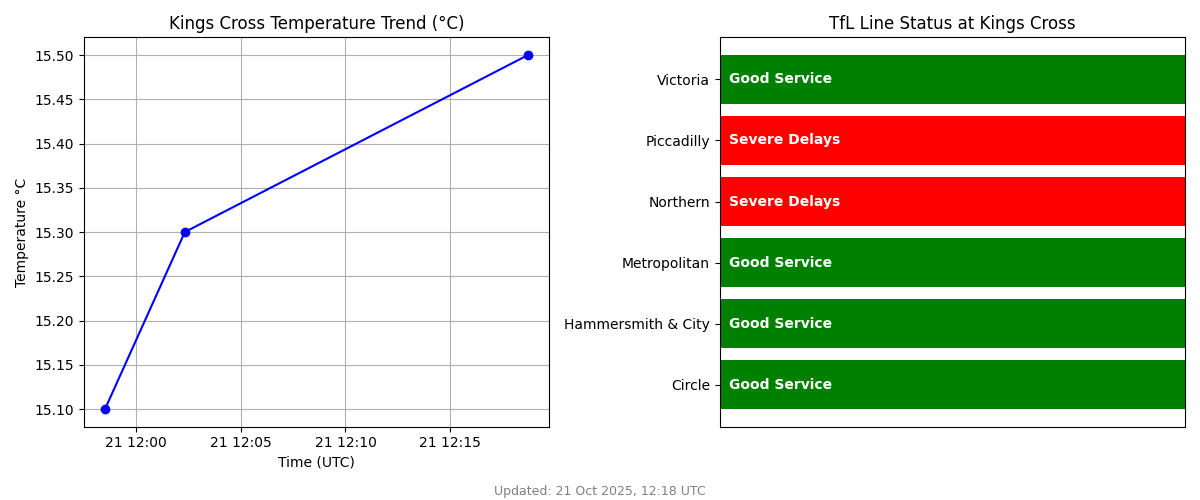
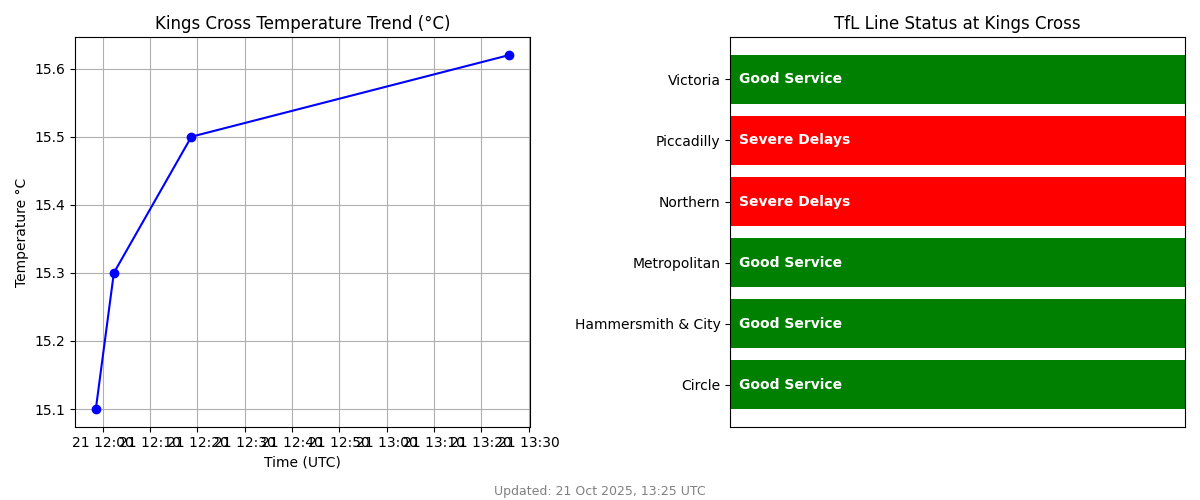
🚀 Update dashboard + enhanced 24h TfL chart [skip ci]

diff --git a/index.html b/index.html
@@ -1,0 +1,32 @@
+<!DOCTYPE html>
+<html lang="en">
+<head>
+  <meta charset="UTF-8">
+  <meta name="viewport" content="width=device-width, initial-scale=1.0">
+  <title>Kings Cross Live Dashboard</title>
+  <style>
+    body { font-family: Arial, sans-serif; text-align: center; background: #fafafa; padding: 40px; }
+    h1,h2 { color:#333; }
+    img { max-width:90%; border-radius:12px; box-shadow:0 4px 12px rgba(0,0,0,0.1); margin-bottom:20px; }
+    button { margin:10px 0; padding:8px 16px; cursor:pointer; border-radius:6px; background:#007bff; color:#fff; border:none; }
+    pre { text-align:left; background:#f4f4f4; padding:10px; border-radius:8px; overflow-x:auto; max-height:400px; }
+    .hidden{display:none;}
+  </style>
+</head>
+<body>
+  <h1>🏙 Kings Cross Live Dashboard</h1>
+  <p>Updated automatically every hour</p>
+  <img src="data/kingscross_dashboard.png" alt="Current Dashboard">
+  <img src="data/kingscross_temp_24h_tfl.png" alt="Last 24h Temperature + TfL Chart">
+
+  <h2>📄 Last 24h Temperature Data</h2>
+  <button onclick="document.getElementById('jsonData').classList.toggle('hidden')">Show / Hide JSON</button>
+  <pre id="jsonData" class="hidden"></pre>
+
+  <script>
+  fetch('data/kingscross_history.json')
+    .then(r => r.json())
+    .then(data => document.getElementById('jsonData').textContent = JSON.stringify(data.slice(-24), null, 2));
+  </script>
+</body>
+</html>
